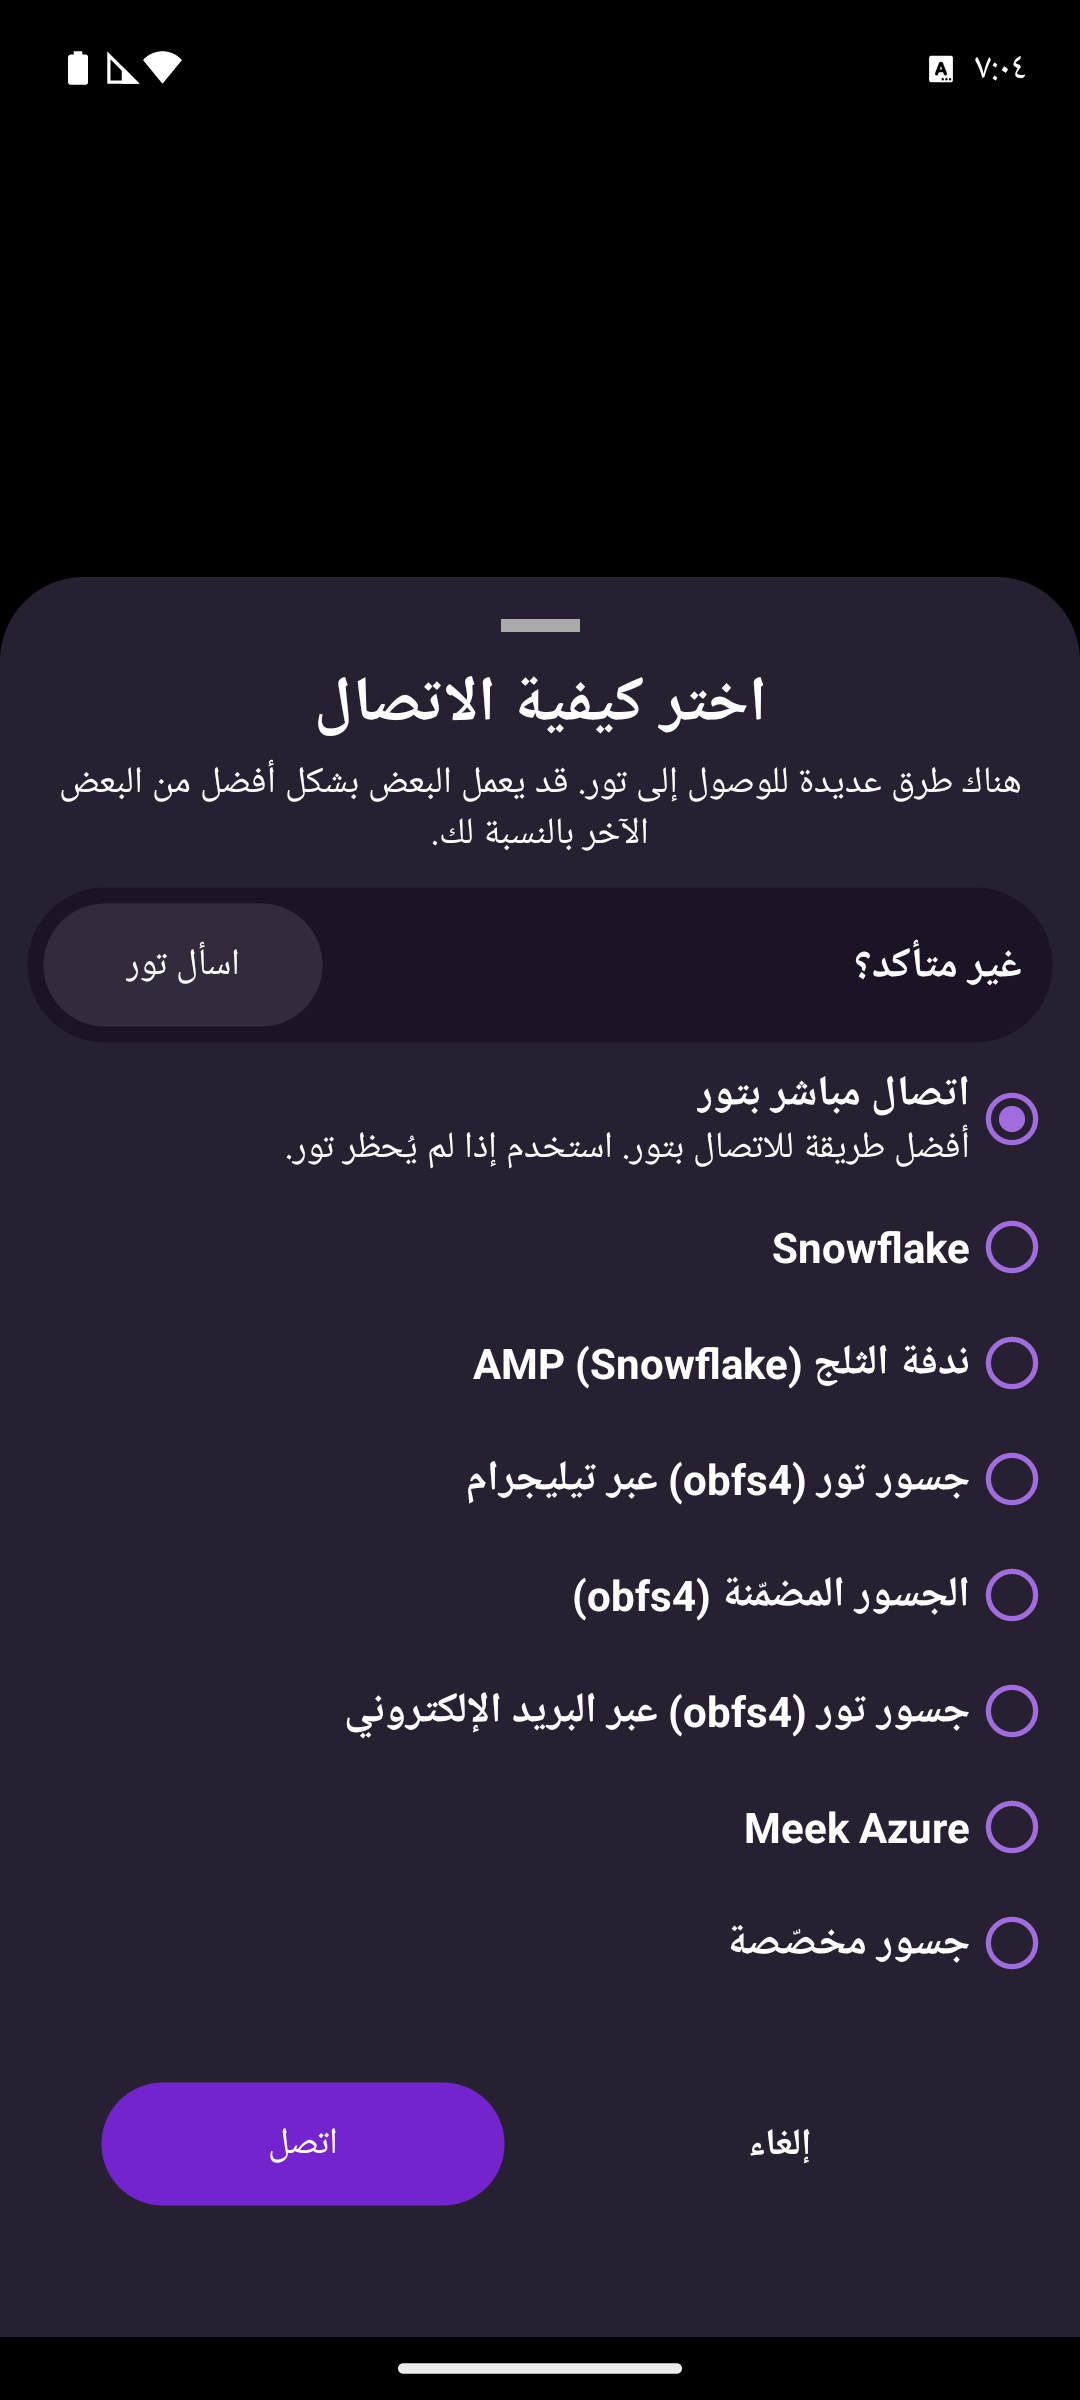
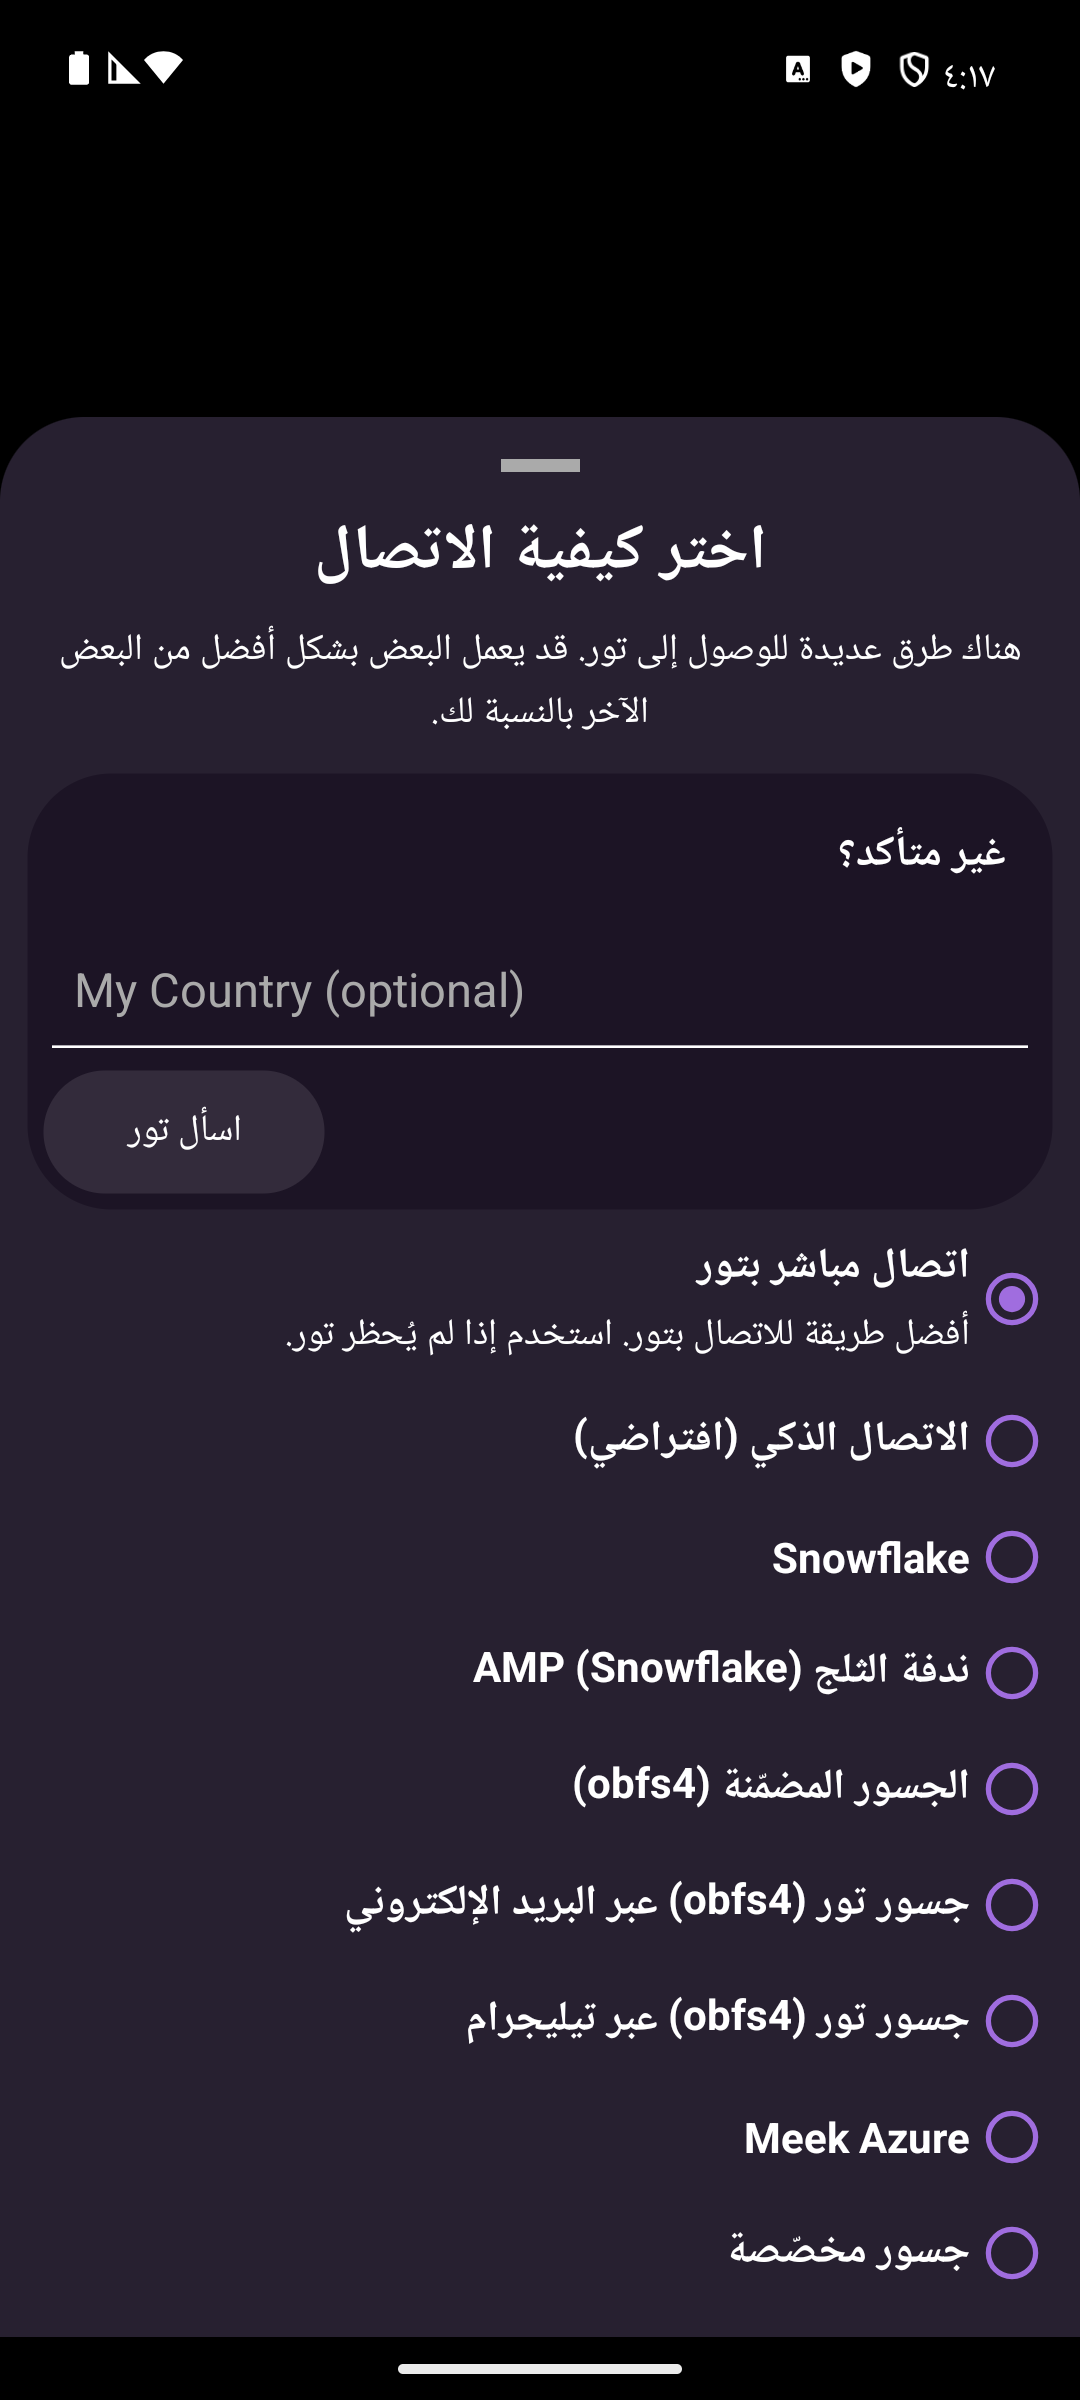
Redid screenshots in English, Arabic, Farsi, and Spanish - fixed broken screenshots after some UI redesigns

diff --git a/app/src/androidTest/java/org/torproject/android/ScreenshotChooseHowToConnect.kt b/app/src/androidTest/java/org/torproject/android/ScreenshotChooseHowToConnect.kt
@@ -1,7 +1,6 @@
 package org.torproject.android
 
 import androidx.test.espresso.Espresso.onData
-import androidx.test.espresso.Espresso.onView
 import androidx.test.espresso.action.ViewActions.click
 import androidx.test.espresso.action.ViewActions.scrollTo
 import androidx.test.espresso.matcher.ViewMatchers.withClassName
@@ -10,14 +9,24 @@ import androidx.test.ext.junit.rules.ActivityScenarioRule
 import org.hamcrest.Matchers.allOf
 import org.hamcrest.Matchers.anything
 import org.hamcrest.Matchers.`is`
+import org.junit.Before
 import org.junit.Rule
 import org.junit.Test
+import org.torproject.android.util.Prefs
 import tools.fastlane.screengrab.Screengrab
 
 class ScreenshotChooseHowToConnect : BaseScreenshotTest() {
 
     @get:Rule
     var mActivityScenarioRule = ActivityScenarioRule(OrbotActivity::class.java)
+
+    @Before
+    fun setup() {
+        when (Screengrab.getLocale()) {
+            "fa" -> Prefs.bridgeCountry = "IR"
+            "en-US" -> Prefs.bridgeCountry = "US"
+        }
+    }
 
     @Test
     fun screenshotChooseHowToConnect() {
@@ -34,7 +43,7 @@ class ScreenshotChooseHowToConnect : BaseScreenshotTest() {
             .atPosition(1)
         linearLayout.perform(scrollTo(), click())
 
-        onView(withId(R.id.rbDirect)).isVisible()
+        isVisible()
         Screengrab.screenshot("B-choose-how")
     }
 }

diff --git a/app/src/androidTest/java/org/torproject/android/BaseScreenshotTest.kt b/app/src/androidTest/java/org/torproject/android/BaseScreenshotTest.kt
@@ -4,7 +4,6 @@ import android.content.Context
 import android.view.View
 import android.view.ViewGroup
 import androidx.test.espresso.ViewAssertion
-import androidx.test.espresso.ViewInteraction
 import androidx.test.espresso.assertion.ViewAssertions
 import androidx.test.espresso.matcher.ViewMatchers
 import androidx.test.ext.junit.runners.AndroidJUnit4
@@ -20,7 +19,6 @@ import org.junit.runner.RunWith
 import org.torproject.android.util.Prefs
 import tools.fastlane.screengrab.locale.LocaleTestRule
 
-
 @LargeTest
 @RunWith(AndroidJUnit4::class)
 abstract class BaseScreenshotTest {
@@ -28,11 +26,11 @@ abstract class BaseScreenshotTest {
     @Rule @JvmField
     val localeTestRule = LocaleTestRule()
 
-    fun ViewInteraction.isGone() = getViewAssertion(ViewMatchers.Visibility.GONE)
+    fun isGone() = getViewAssertion(ViewMatchers.Visibility.GONE)
 
-    fun ViewInteraction.isVisible() = getViewAssertion(ViewMatchers.Visibility.VISIBLE)
+    fun isVisible() = getViewAssertion(ViewMatchers.Visibility.VISIBLE)
 
-    fun ViewInteraction.isInvisible() = getViewAssertion(ViewMatchers.Visibility.INVISIBLE)
+    fun isInvisible() = getViewAssertion(ViewMatchers.Visibility.INVISIBLE)
 
 
     // all tests need this for OrbotService's notification

diff --git a/app/src/androidTest/java/org/torproject/android/ScreenshotSettings.kt b/app/src/androidTest/java/org/torproject/android/ScreenshotSettings.kt
@@ -40,23 +40,11 @@ class ScreenshotSettings : BaseScreenshotTest() {
                 withId(R.id.rvMoreActions),
                 childAtPosition(
                     withClassName(`is`("android.widget.LinearLayout")),
-                    0
+                    1
                 )
             )
         )
-        recyclerView.perform(actionOnItemAtPosition<ViewHolder>(0, click()))
-
-        val recyclerView2 = onView(
-            allOf(
-                withId(androidx.preference.R.id.recycler_view),
-                childAtPosition(
-                    withId(android.R.id.list_container),
-                    0
-                )
-            )
-        )
-        recyclerView2.perform(actionOnItemAtPosition<ViewHolder>(0, click()))
-
+        recyclerView.perform(actionOnItemAtPosition<ViewHolder>(2, click()))
         Thread.sleep(300)
 
         Screengrab.screenshot("F-settings_screen")

diff --git a/app/src/androidTest/java/org/torproject/android/ScreenshotChooseApps.kt b/app/src/androidTest/java/org/torproject/android/ScreenshotChooseApps.kt
@@ -55,12 +55,12 @@ class ScreenshotChooseApps : BaseScreenshotTest() {
                 withId(R.id.rvMoreActions),
                 childAtPosition(
                     withClassName(`is`("android.widget.LinearLayout")),
-                    0
+                    1
                 )
             )
         )
-        recyclerView.perform(actionOnItemAtPosition<ViewHolder>(2, click()))
-        Thread.sleep(1750) // wait a long time for apps to load on the "Choose Apps" screen
+        recyclerView.perform(actionOnItemAtPosition<ViewHolder>(0, click()))
+        Thread.sleep(1650) // wait a long time for apps to load on the "Choose Apps" screen
         // TODO properly wait for desired view to appear in a proper espresso/unit-testy way
         Screengrab.screenshot("C-Choose_Apps")
     }

diff --git a/app/src/androidTest/java/org/torproject/android/ScreenshotConnected.kt b/app/src/androidTest/java/org/torproject/android/ScreenshotConnected.kt
@@ -1,7 +1,5 @@
 package org.torproject.android
 
-import androidx.test.espresso.Espresso.onView
-import androidx.test.espresso.matcher.ViewMatchers.withId
 import androidx.test.ext.junit.rules.ActivityScenarioRule
 import org.junit.Before
 import org.junit.Rule
@@ -26,7 +24,7 @@ class ScreenshotConnected : BaseScreenshotTest() {
     @Test
     fun screenshotConnected() {
         mActivityScenarioRule.scenario.onActivity { _ ->
-            onView(withId(R.id.lvConnected)).isVisible()
+            isVisible()
             Thread.sleep(300)
             Screengrab.screenshot("A-orbot_connected")
         }
